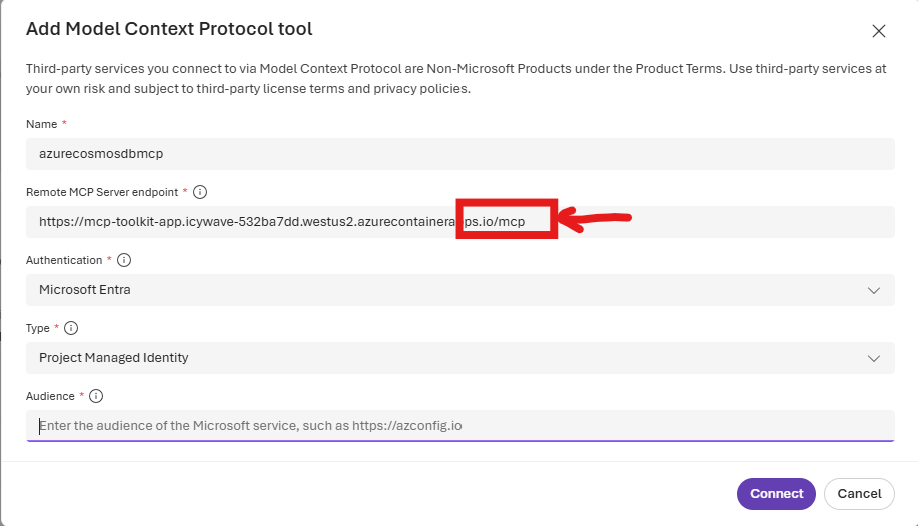
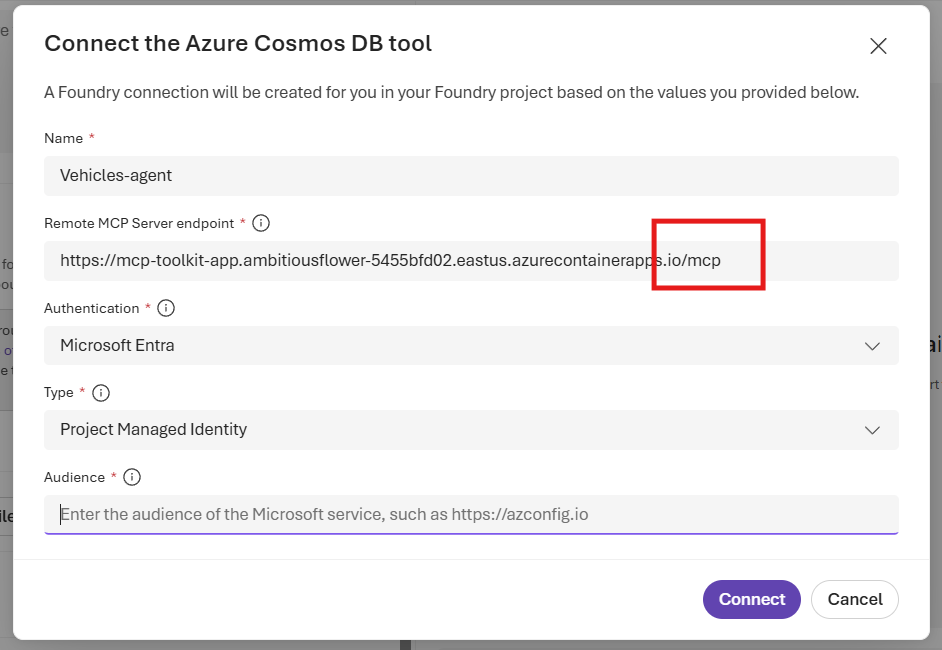
Merge pull request #118 from AzureCosmosDB/update-docs
Refactor code structure for improved readability and maintainability

Pull request: Refactor code structure for improved readability and maintainability

Changed region(s): [[0.0, 0.0, 1.0, 1.0], [0.915, 0.0608, 0.9455, 0.0913]]

diff --git a/README.md b/README.md
@@ -332,9 +332,12 @@ This assigns the necessary roles for Microsoft Foundry to call your MCP server.
 
 1. Navigate to your Microsoft Foundry project
 2. Go to **Build** → **Create agent**  
-3. Select the **+ Add** in the tools section
+3. Select the **+ Add** in the tools section, then choose **Browse tools**
+
+  ![Browse Tools](images/ai_foundry_add.png)
+
 4. Select the **Catalog** tab 
-5. Choose **Azure Cosmos DB** as the tool and click **Create**
+5. In the **Catalog** tab, select **Azure Cosmos DB**, or search for **Azure Cosmos DB**, then click **Create**
 
    ![Add Tool from Catalog](images/ai_foundry_ui_mcp_connect.png)
 